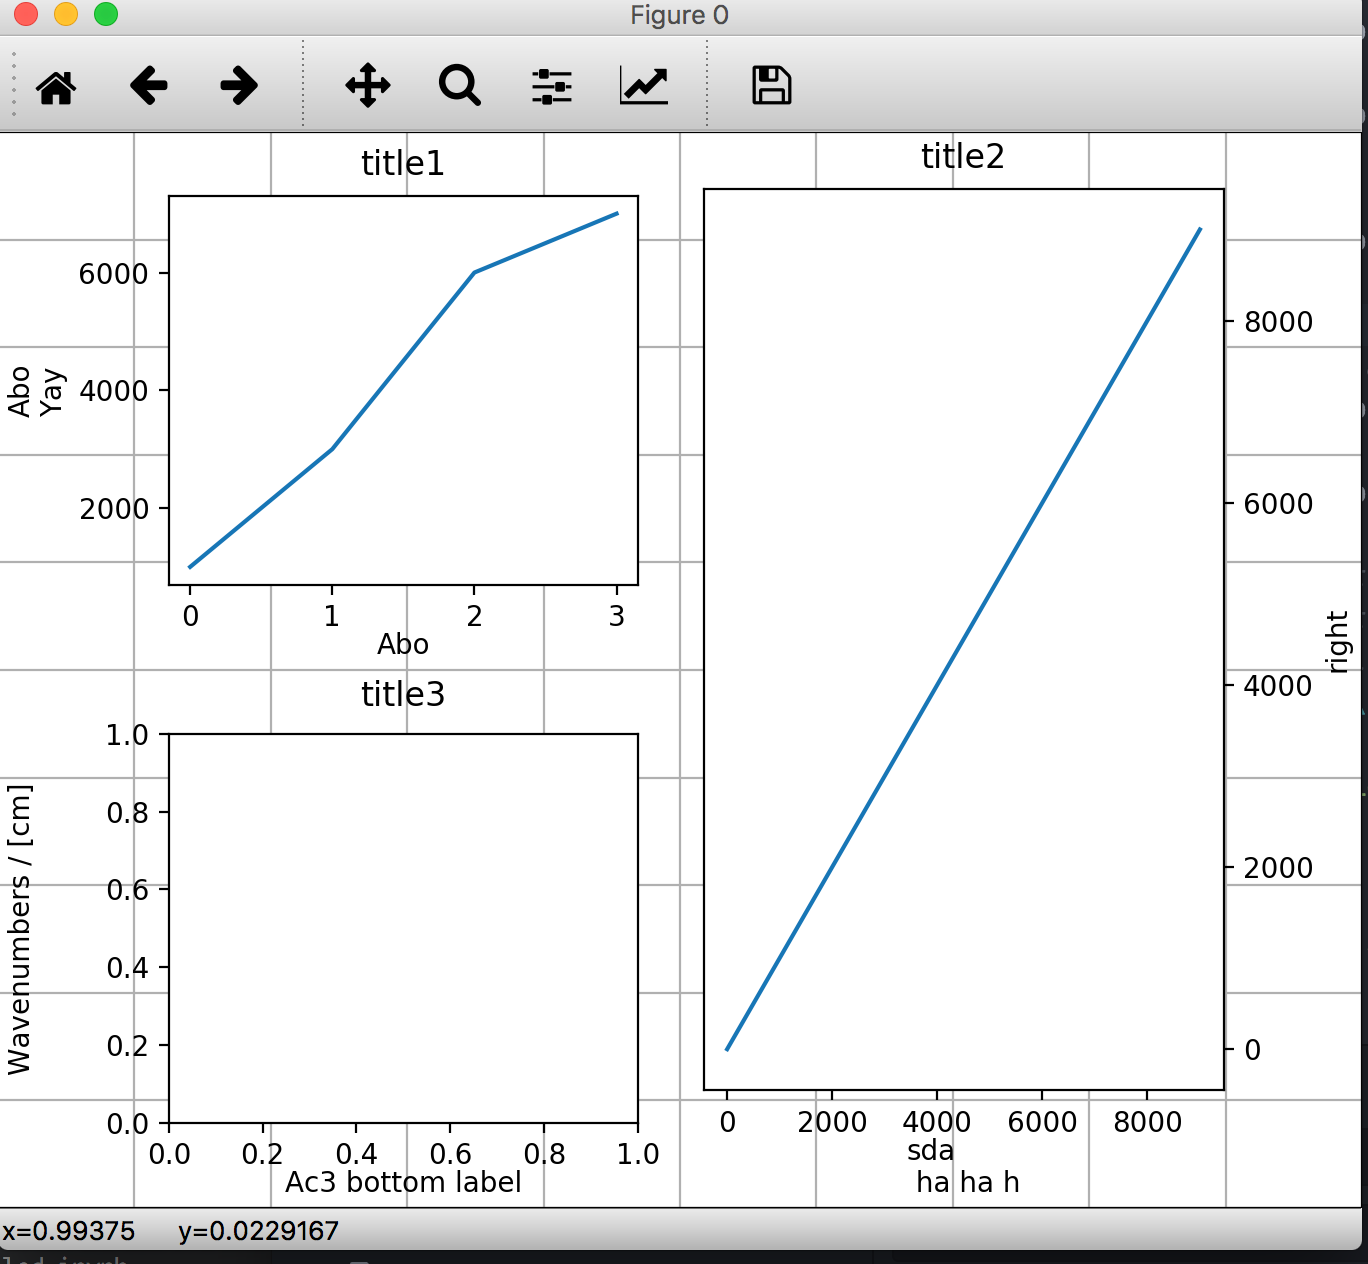
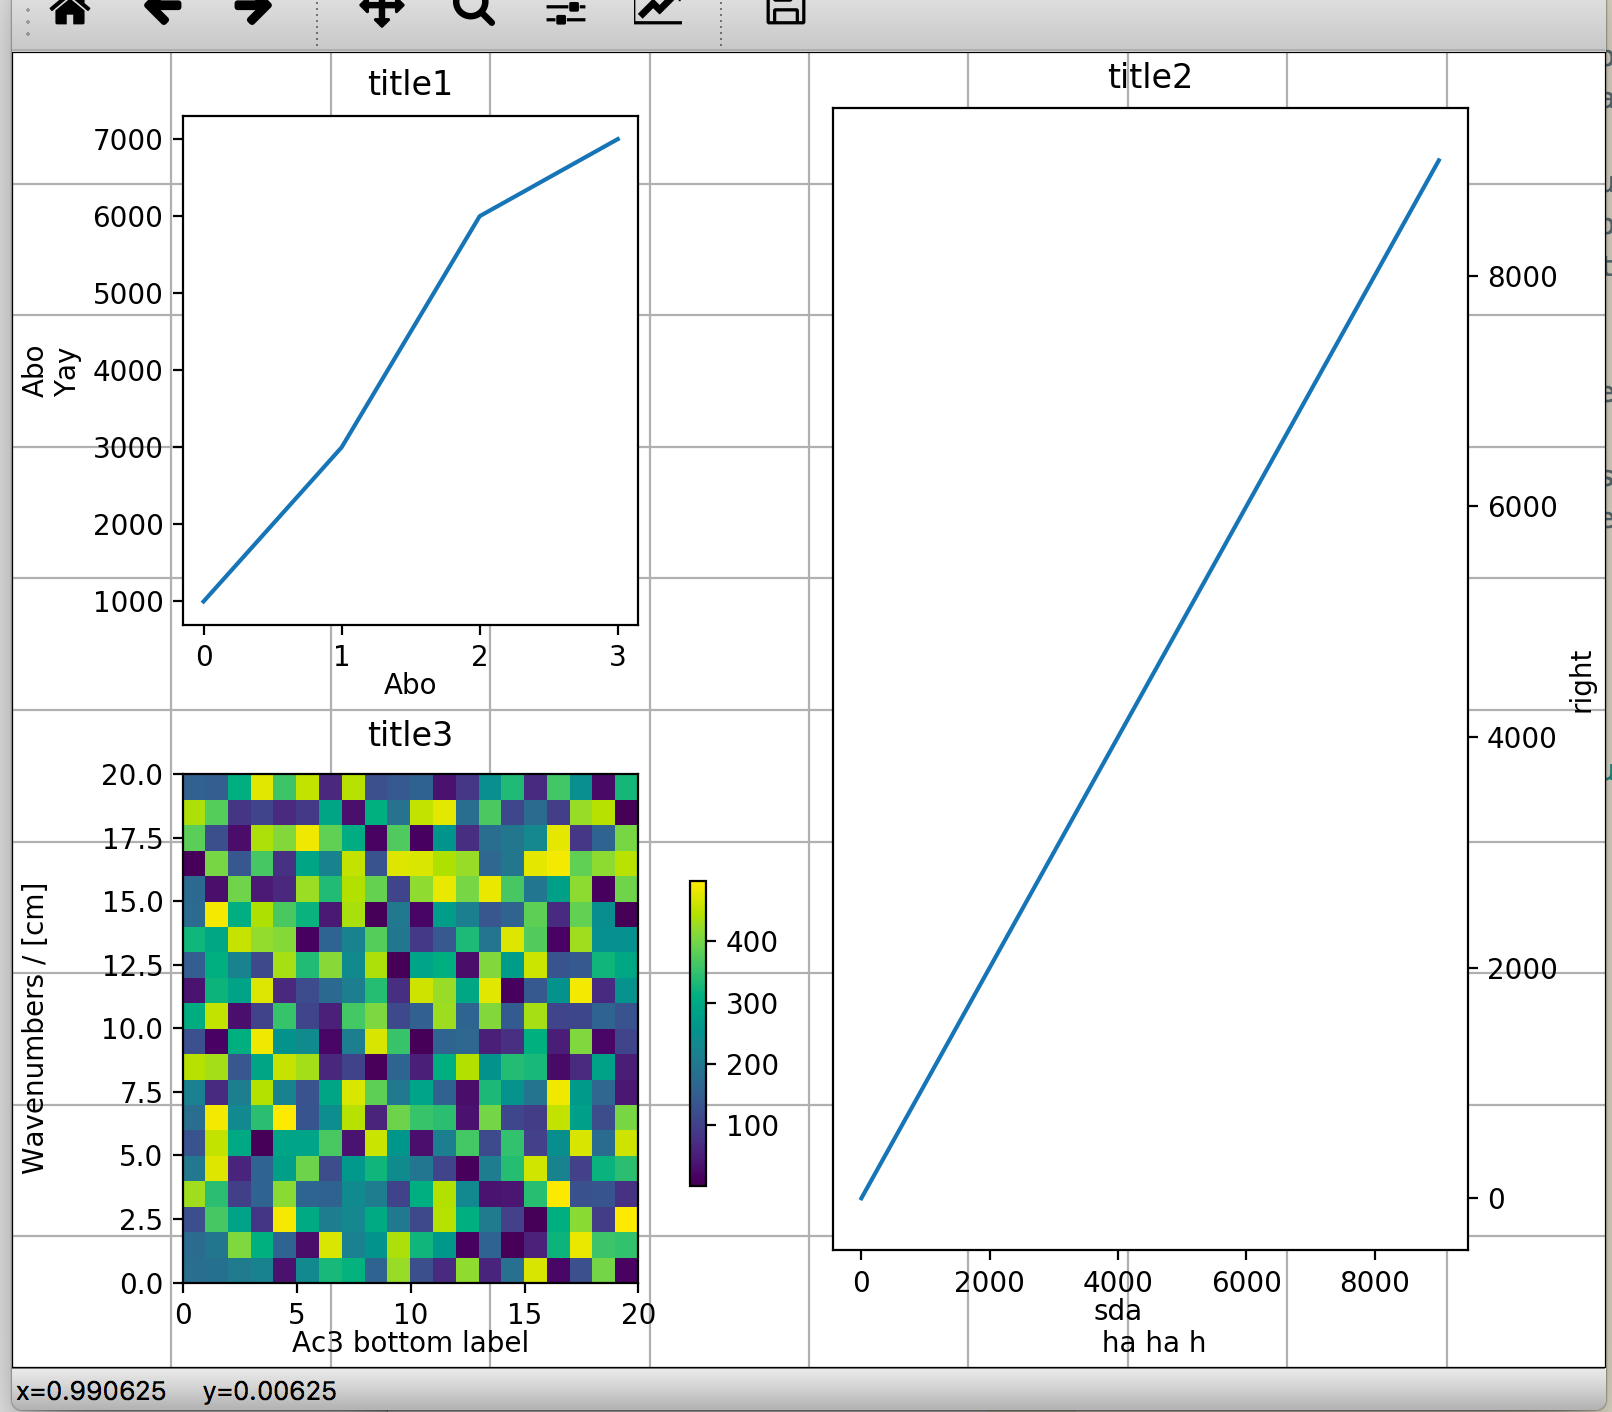
New version w/ colorbar (parasitic axis)

diff --git a/layout.py b/layout.py
@@ -238,14 +238,25 @@ class RawAxesContainer(Box):
         # this axis is added at init.  The plotted, and then used to layout.
         # we need a re-calc step after draw..
         self.axes = parent.parent.figure.add_axes([0.15, 0.15, 0.45, 0.45], label=str(id(self)))
+        # constrain to be inside parent?
+        constraints = [self.left  >= self.parent.left,
+                        self.right <= self.parent.right,
+                        self.top   <= self.parent.top,
+                        self.bottom >= self.parent.bottom]
+        for c in constraints:
+            self.solver.addConstraint(c)
         #print('Added Axes')
         #print(self.axes)
 
     def place(self):
+        print("Placing: ")
+        #        print (self.solver.dump())
         figure = self.parent.parent.figure
         invTransFig = figure.transFigure.inverted().transform_bbox
         # set the axes position based on the info in our box.  Need to
         # transform into relative co-ordinates.
+        print(self)
+        print(self.width.value())
         box = matplotlib.transforms.Bbox.from_bounds(*self.get_mpl_rect())
         print('Raw axis box',self.name, box)
         bbox = invTransFig(box)
@@ -345,15 +356,31 @@ class AxesContainer(Box):
         #constraints += [self.left_label.right  <= self.raw_axes.left]
 
         pad = self.padding
-        constraints = [self.left + pad   <= self.left_label.left,
+        # need to save these because we want to remove them and redo them
+        # if we add another box in some direction.
+        self.outer_left = self.left_label
+        self.outer_right = self.right_label
+        self.outer_bottom = self.bottom_label
+        self.outer_top = self.top_title
+        if 0:
+            self.outer_constraints = [self.left + pad   <= self.left_label.left,
                         self.right - pad >= self.right_label.right,
                         self.top_title.top + pad <= self.top,
                         self.bottom + pad <= self.bottom_label.bottom,
                         self.left >= 0,
                         self.bottom >= 0]
+        self.outer_constraints = [self.left + pad   <= self.outer_left.left,
+                        self.right - pad >= self.outer_right.right,
+                        self.outer_top.top + pad <= self.top,
+                        self.bottom + pad <= self.outer_bottom.bottom,
+                        self.left >= 0,
+                        self.bottom >= 0]
+        for c in self.outer_constraints:
+            print(c)
+            self.solver.addConstraint((c|1e5))
 
         if 1:
-            constraints += align([self.top_title, self.top_label,
+            constraints = align([self.top_title, self.top_label,
                                   self.axes_tick.raw_axes, self.bottom_label], 'h_center')
             constraints += align([self.left_label, self.axes_tick.raw_axes,
                                   self.right_label], 'v_center')
@@ -373,6 +400,38 @@ class AxesContainer(Box):
         self.solver.suggestValue(self.axes_tick.pref_width, 100000)
         self.solver.suggestValue(self.axes_tick.pref_height, 100000)
         self.solver.updateVariables()
+
+    def append_right(self, box):
+        print(type(self.children[-1]))
+        print(type(box))
+        self.children += [box]
+        # constraints on the leftside of box.
+        constraints = hstack([self.outer_right, box])
+        constraints += align([self.outer_right, box],'v_center')
+        for c in constraints:
+            print(c)
+            self.solver.addConstraint((c|1e5))
+        # now box is the outer right
+        self.outer_right = box
+
+        # remove the old outer constraints....
+        for c in self.outer_constraints:
+            try:
+                self.solver.removeConstraint(c)
+            except:
+                print('failed to remove',c)
+        # redo the outer constraints.
+        pad = 10.
+        self.outer_constraints = [self.left + pad   <= self.outer_left.left,
+                        self.right - pad >= self.outer_right.right,
+                        self.outer_top.top + pad <= self.top,
+                        self.bottom + pad <= self.outer_bottom.bottom,
+                        self.left >= 0,
+                        self.bottom >= 0]
+        for c in self.outer_constraints:
+            print(c)
+            self.solver.addConstraint((c|1e5))
+
 
     def add_label(self, text, where='bottom'):
         d = {'left': self.left_label,
@@ -412,7 +471,12 @@ class AxesContainer(Box):
         self.solver.updateVariables()
 
         for c in self.children:
-            c.place()
+            # children can either be AxesContainer (parasitic axis usually)
+            # or children can be objects with a place method.
+            if isinstance(c,AxesContainer):
+                c.do_layout()
+            else:
+                c.place()
 
 
 def find_renderer(fig):
@@ -454,6 +518,17 @@ if __name__ == '__main__':
     ac1 = AxesContainer(fl,name='ac1')
     ac2 = AxesContainer(fl,name='ac2')
     ac3 = AxesContainer(fl,name='ac3')
+    print(ac3.width)
+    # make a colorbar for ac3 only...
+    cb3 = AxesContainer(fl,name='cb3')
+    # set the size of the actual colorbar inside this axis...
+    fl.solver.addConstraint(cb3.axes_tick.raw_axes.width ==
+            0.03*ac3.axes_tick.width)
+    fl.solver.addConstraint(cb3.axes_tick.raw_axes.height ==
+            0.6*ac3.axes_tick.raw_axes.height)
+    # append this axis to the right of ac3:
+    ac3.append_right(cb3)
+
     gl = GridLayout(2, 2, fig2.bbox.width, fig2.bbox.height)
 
     #fl.solver.addConstraint(ac1.top_label.v_center == ac2.top_label.v_center)
@@ -505,20 +580,29 @@ if __name__ == '__main__':
     ac3.axes_tick.raw_axes.axes.yaxis.set_ticks_position('left')
     ac1.axes_tick.raw_axes.axes.plot([1000, 3000, 6000, 7000])
 
+    pcm = ac3.axes_tick.raw_axes.axes.pcolormesh(np.random.rand(20,20)*500)
+    fig2.colorbar(pcm,cax=cb3.axes_tick.raw_axes.axes)
+    cb3.axes_tick.raw_axes.height
+    fl.solver.addConstraint(cb3.axes_tick.raw_axes.height <=
+                    0.6*ac3.axes_tick.raw_axes.height)
     def do_lay(ev):
         print('Resize geom',fig2.canvas.get_width_height())
         gl.calc_borders(fig2.bbox.width, fig2.bbox.height)
         gl.place_rect(ac1, (0, 0))
         gl.place_rect(ac2, (0, 1), rowspan=2)
         gl.place_rect(ac3, (1, 0))
-        for a in [ac1  , ac2, ac3]:
+        for a in [ac1, ac2, ac3]:
+            print(a)
             a.do_layout()
             # print(fl.solver.dump())
 
-    do_lay(None)
     do_lay(None)
     cid = fig2.canvas.mpl_connect('resize_event', do_lay)
 
     # print(ac)
     plt.show()
-    fig2.savefig('Example.png')
+    #print('Starting Print')
+    #matplotlib.use('PDF',warn=False, force=True)
+    #import matplotlib.pyplot as plt
+    do_lay(None)
+    #fig2.savefig('Example.png')

diff --git a/README.md b/README.md
@@ -10,9 +10,11 @@ To run `python layout.py`
 
 Status: its pretty messy, but does what I want.  Todo: clean up methods, and come up with clean way to link axes.
 
-Figure out how to add subsidiary axes like colorbars.
+  - [x] Figure out how to add subsidiary axes like colorbars.  This is now done via a `append_right` method for the `AxesContainer` class, where whatever is appended to the right is put to the right and centered on the container vertically.  
+     - [ ] Other directions
+     - [ ] Optional align arguments (i.e. center, top, bottom, offset)
 
-See if this procedure is robust on other backends.  So far it doesn't work at all on `nbagg` because it doesn't seem to do `figure.transFigure` properly.  (??)
+  - [ ] See if this procedure is robust on other backends.  So far it doesn't work at all on `nbagg` because it doesn't seem to do `figure.transFigure` properly.  (??)
 
 Long term, turn into a MEP
 
